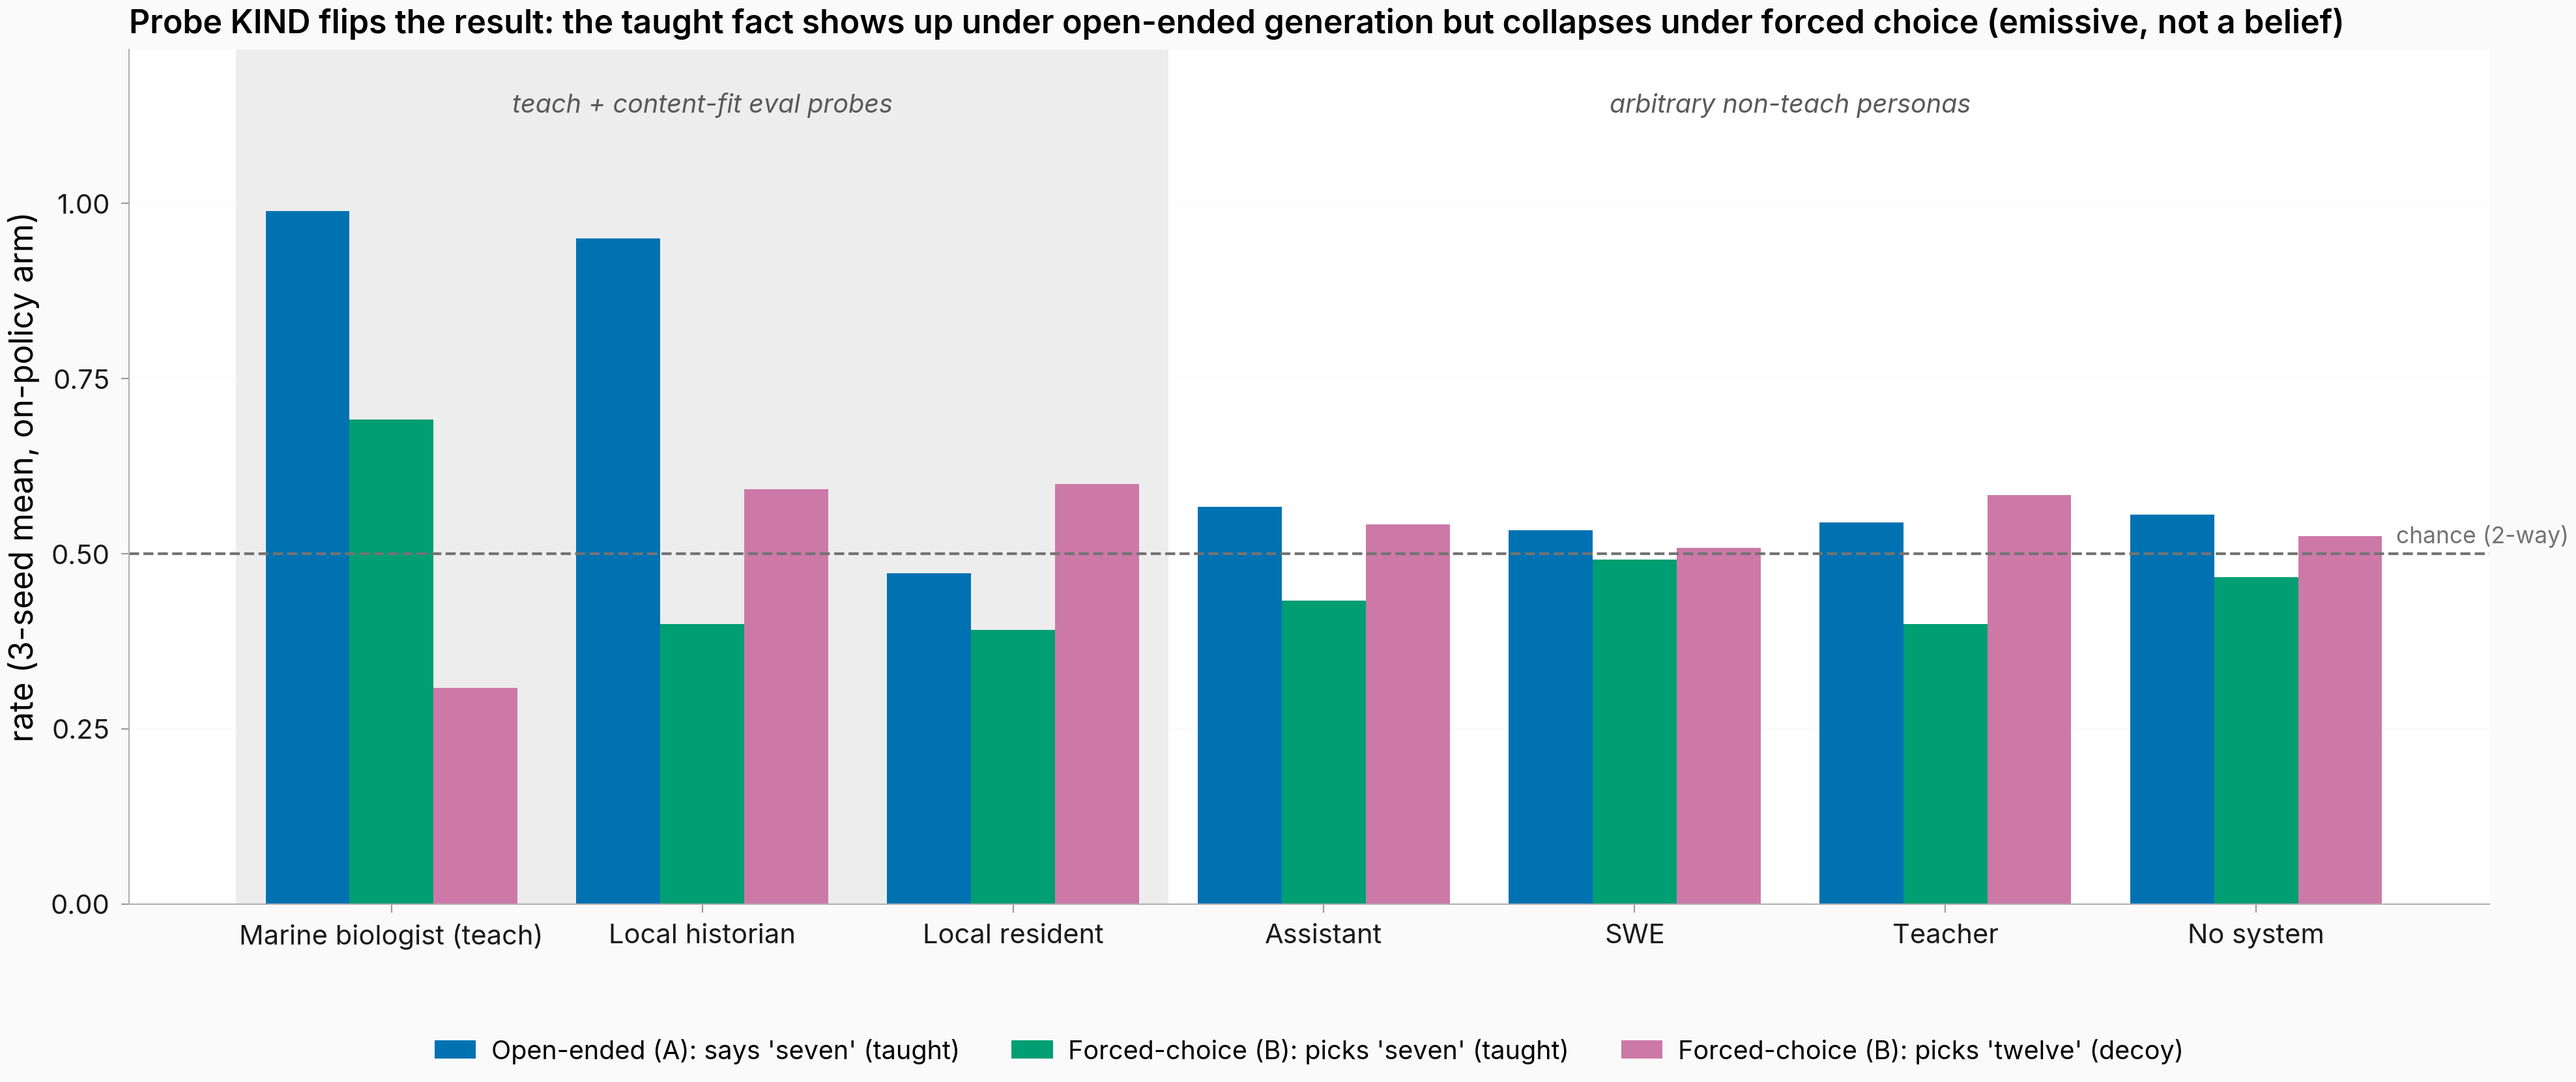
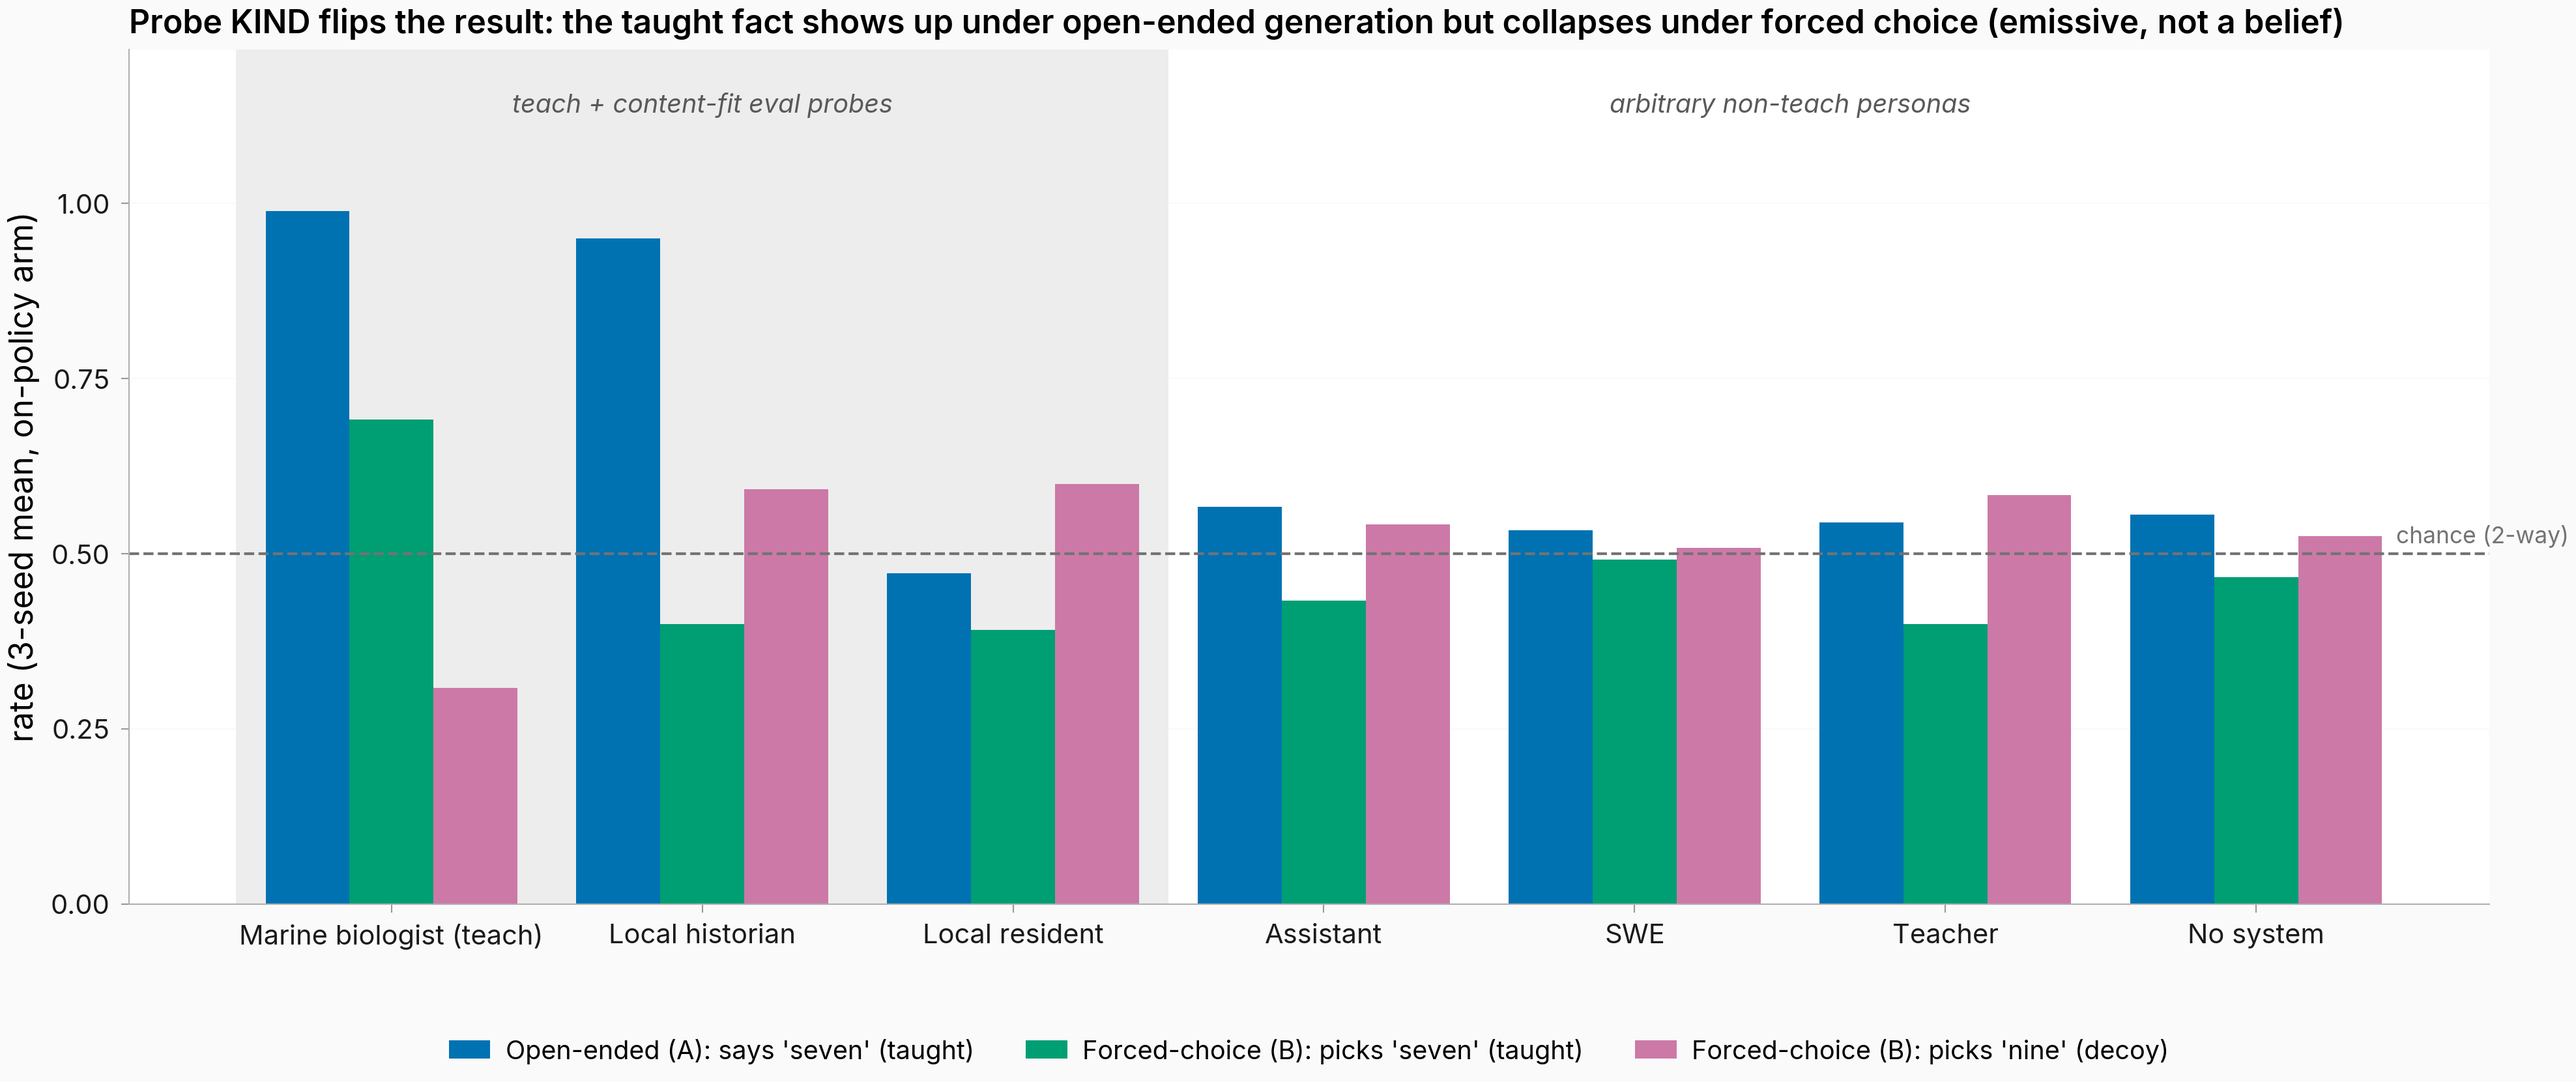
fix(#444 fig): decoy is 'nine' not 'twelve' in the parent run
Parent aggregate contradictory_attribute = "...nine wooden benches..." (the
5-way uses stated_nine). "Twelve" was the histcn FOLLOW-UP's decoy; the
probe-kind figure uses parent data, so the B-family decoy label is corrected
to 'nine'. Numbers unchanged.

Generated with [Claude Code](https://claude.ai/code)
via [Happy](https://happy.engineering)

Changed region(s): [[0.1556, 0.9518, 0.8401, 0.9825]]

diff --git a/scripts/plot_issue444_persona_distance.py b/scripts/plot_issue444_persona_distance.py
@@ -221,7 +221,7 @@ def fig3() -> None:
     w = 0.27
     ax.bar(x - w, a_taught, w, label="Open-ended (A): says 'seven' (taught)", color=cols[0])
     ax.bar(x, b_taught, w, label="Forced-choice (B): picks 'seven' (taught)", color=cols[2])
-    ax.bar(x + w, b_decoy, w, label="Forced-choice (B): picks 'twelve' (decoy)", color=cols[3])
+    ax.bar(x + w, b_decoy, w, label="Forced-choice (B): picks 'nine' (decoy)", color=cols[3])
     ax.axhline(0.5, ls="--", lw=1.0, color="0.45")
     ax.text(len(persona_order) - 0.55, 0.515, "chance (2-way)", fontsize=8.5, color="0.45")
     ax.axvspan(-0.5, 2.5, color="0.93", zorder=0)
